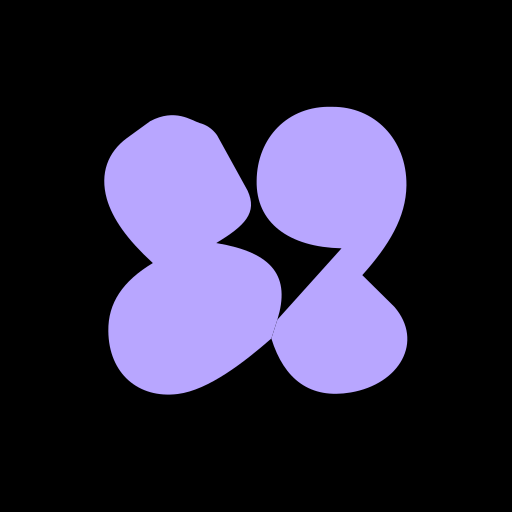
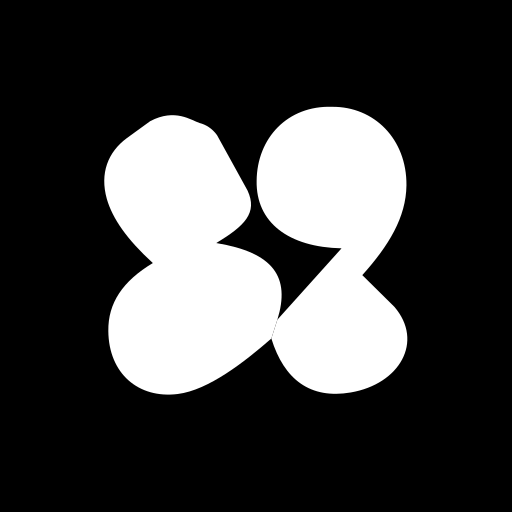
홈 화면과 알림 앱 아이콘을 검정·흰색 로고로 통일

Changed region(s): [[0.1875, 0.1875, 0.8125, 0.7812]]

diff --git a/apps/web/app/layout.tsx b/apps/web/app/layout.tsx
@@ -18,7 +18,7 @@ export async function generateMetadata(): Promise<Metadata> {
         { url: '/favicon-32.png?v=5', sizes: '32x32', type: 'image/png' },
         { url: '/favicon.svg?v=5', sizes: 'any', type: 'image/svg+xml' },
       ],
-      apple: '/icon-180.png?v=3',
+      apple: '/icon-180.png?v=4',
     },
   }
 }

diff --git a/apps/web/public/sw.js b/apps/web/public/sw.js
@@ -7,7 +7,7 @@ self.addEventListener('push', (event) => {
     tag: data.tag,
     renotify: true,
     data: { url: data.url },
-    icon: '/icon-192.png',
+    icon: '/icon-192.png?v=4',
   }))
 })
 

diff --git a/docs/brand/README.md b/docs/brand/README.md
@@ -16,13 +16,13 @@
 ## 로고
 
 [logo-symbol.svg](logo-symbol.svg)가 편집 가능한 원본이다. 승인한 03번 시안의 곡면을 벡터로 정리했다.
-기본 로고 SVG는 평면 단색이다. 파비콘은 자수정 그라데이션 바탕에 흰색 마크를 사용한다.
+기본 로고 SVG는 평면 단색이다. 홈 화면 앱 아이콘은 검정 바탕에 흰색 마크, 파비콘은 차콜 바탕에 흰색 마크를 사용한다.
 
 - public/logo-mark.svg / logo-mark.png: 흰색 기본 로고.
 - public/logo-mark-lavender.svg / logo-mark-lavender.png: 라벤더 포인트 버전.
 - public/logo-m.png / logo-s.png: 인트로·빈 대화 목록에서 만나는 좌우 곡면.
-- public/icon-180.png / icon-192.png / icon-512.png: 검정 바탕·라벤더 심볼, 마크 폭 62%.
-- public/favicon.svg / favicon.png: 자수정 타일·흰색 심볼(마크 폭 76%).
+- public/icon-180.png / icon-192.png / icon-512.png: 검정 바탕·흰색 심볼, 마크 폭 62%. iPhone·PWA·알림 경로는 v4로 캐시를 갱신한다.
+- public/favicon.svg / favicon.png: 차콜 타일·흰색 심볼(마크 폭 76%).
 - public/favicon-16.png / favicon-32.png / favicon.ico: 브라우저 탭용 작은 크기, ICO에는 16·32·48px 포함.
 - logo-mark-source.png: 이전 M 시안의 기록. 현재 자산 생성에는 사용하지 않는다.
 
@@ -33,6 +33,8 @@ Node.js와 sharp가 필요하다. sharp가 로컬 패키지 경로에 있으면:
 ~~~sh
 node docs/brand/make-logo-assets.mjs
 ~~~
+
+홈 화면 앱 아이콘 세 크기만 만들 때는 `--pwa-only`를 붙인다.
 
 bundled runtime을 사용할 때는 MIRO_ASSET_NODE_MODULES를 sharp가 있는 node_modules 절대 경로로 설정한다.
 기존 Python 실행 경로는 같은 Node 생성기로 연결된다.
